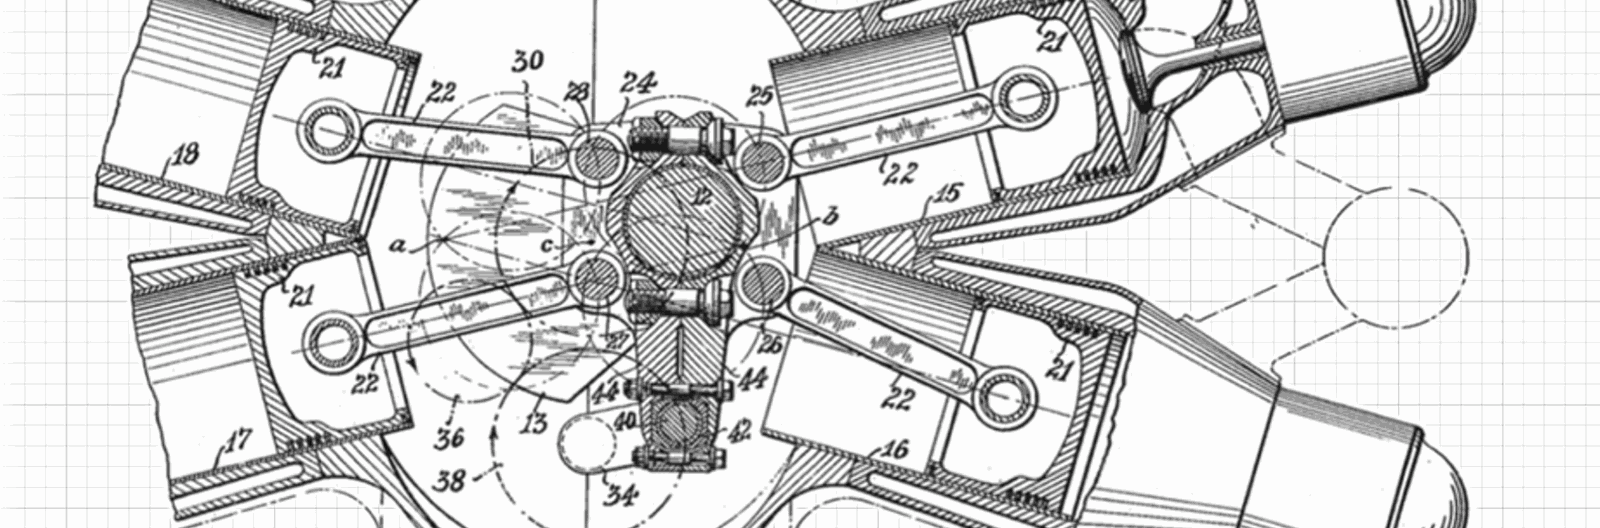
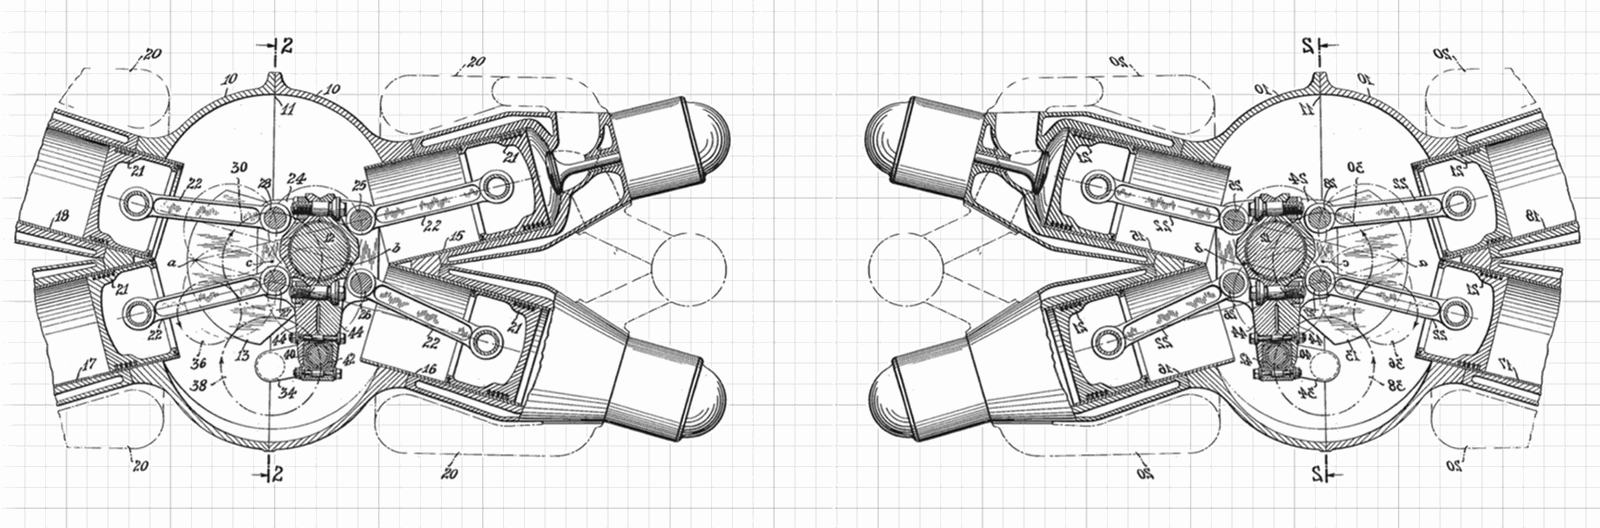
added reverse engine image

diff --git a/_includes/footer.html b/_includes/footer.html
@@ -1,4 +1,4 @@
-<span> &copy; {{ site.time | date: '%Y' }} Adler Vermillion, LLP, No Claim to Gov't Works &nbsp;&nbsp;  | &nbsp;&nbsp; Attorney Advertising &nbsp;&nbsp; | &nbsp;&nbsp; Powered by Github, <a href="http://jekyllrb.com">Jekyll</a> & <a href="http://mademistakes.com/">So Simple</a>.</span>
+<span> &copy; {{ site.time | date: '%Y' }} Adler Vermillion, LLP &nbsp;&nbsp;  | &nbsp;&nbsp; Attorney Advertising &nbsp;&nbsp; | &nbsp;&nbsp; Powered by Github, <a href="http://jekyllrb.com">Jekyll</a> & <a href="http://mademistakes.com/">So Simple</a>.</span>
 
 <div class="social-icons">
 	{% if site.owner.twitter %}<a href="http://twitter.com/{{ site.owner.twitter }}" title="{{ site.owner.name}} on Twitter" target="_blank"><i class="icon-twitter icon-2x"></i></a>{% endif %}

diff --git a/ericadler.md b/ericadler.md
@@ -12,20 +12,16 @@ image:
 ---
 
 
-Eric builds robust patent portfolios at the intersection of design and technology. He brings user experience and information architecture principals from the digital world into his legal work. Eric's IP expertise helps designers and developers enforce their rights, and he works with the BLIP clinic to provide free defense against patent trolls.
+Eric builds robust patent portfolios at the intersection of design and technology. He brings user experience and information architecture principals from the digital world into his legal work. 
+
+Eric's IP expertise helps designers and developers enforce their rights.
 
 Eric an advisor to Brooklyn Law School’s technology clinic (BLIP) and sits on the board of the NYC Legal Hackers.
 
 Eric rides bikes, plays banjo, and builds copyright codex, a free treatise on copyright law.
 
-**Admissions**
+- - - 
 
-New York
-
-Patent Bar
-
-**Education**
-
-JD, Brooklyn Law School
-
-BSME, Tufts University
+| *Admissions* &nbsp; &nbsp; &nbsp; &nbsp; | *Education* | 
+|  New York | JD, Brooklyn Law School | 
+| Patent Bar | BSME, Tufts University | 
